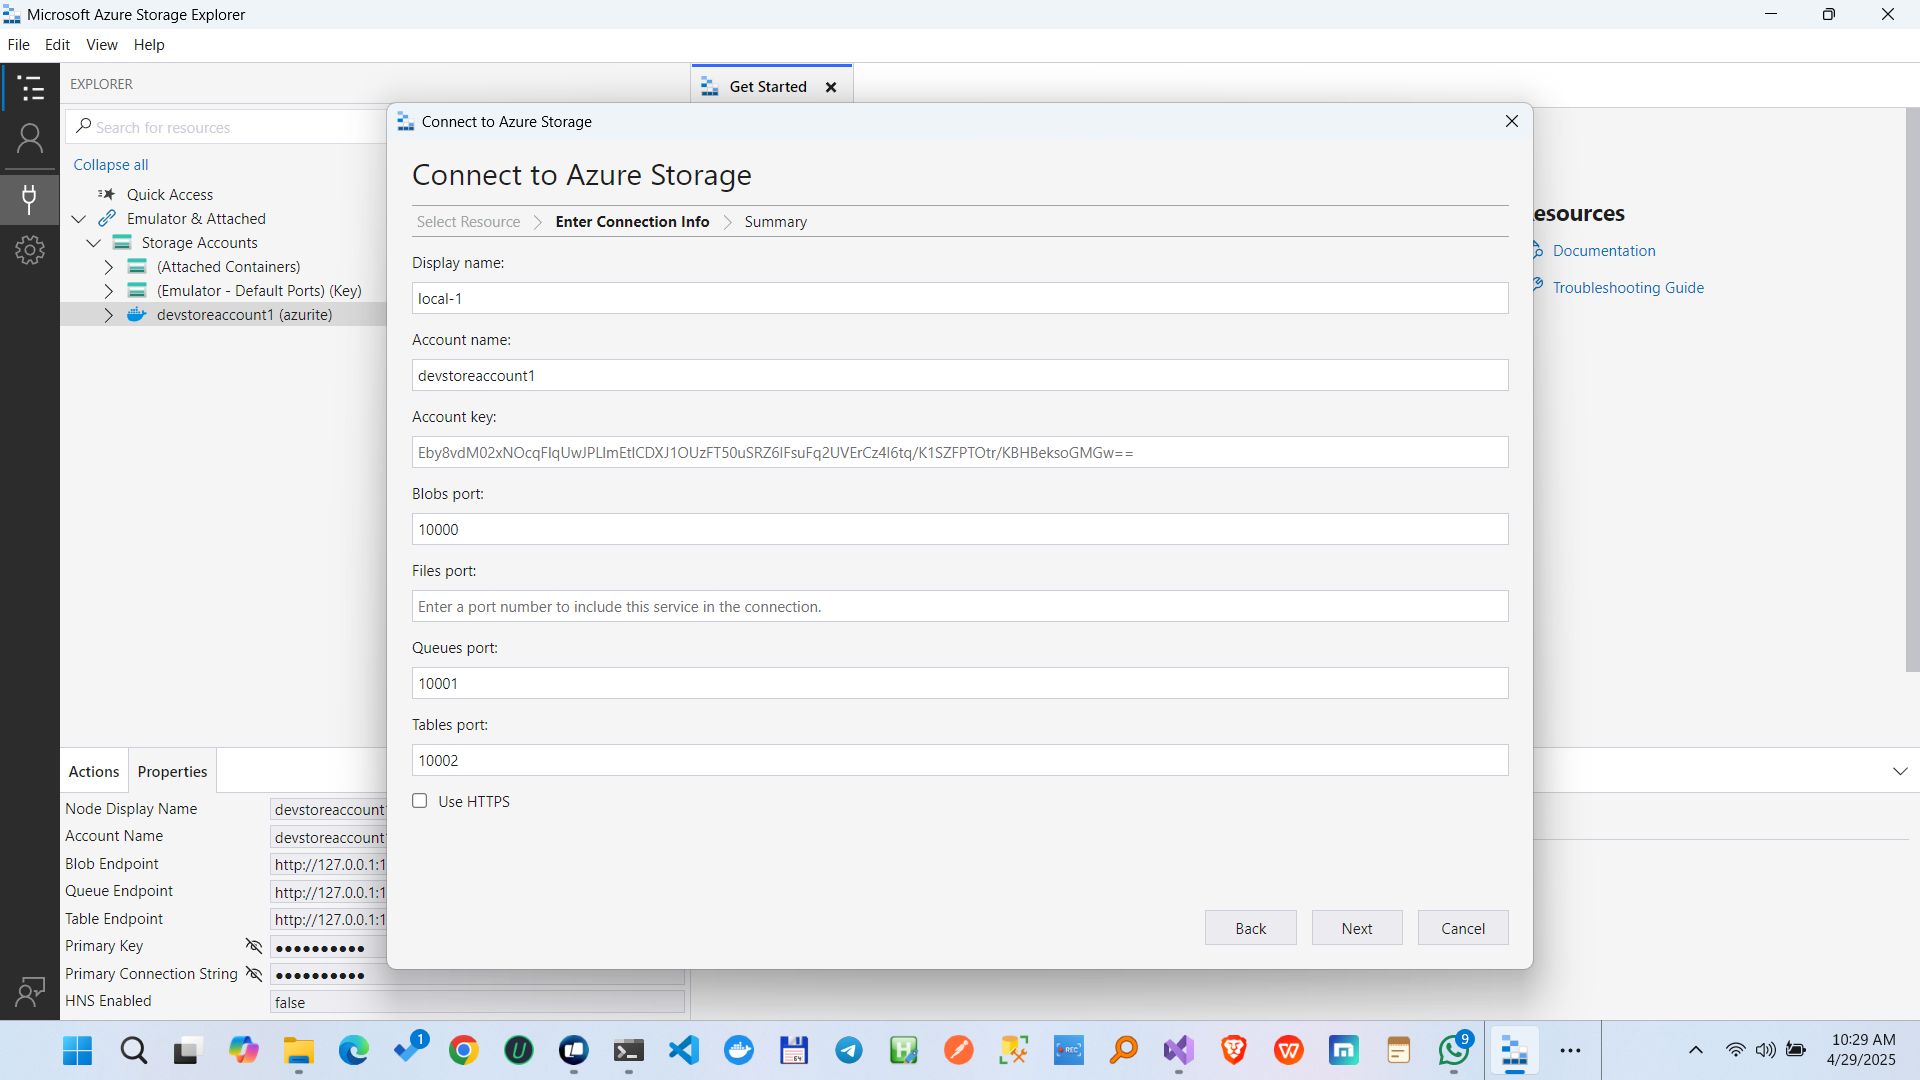
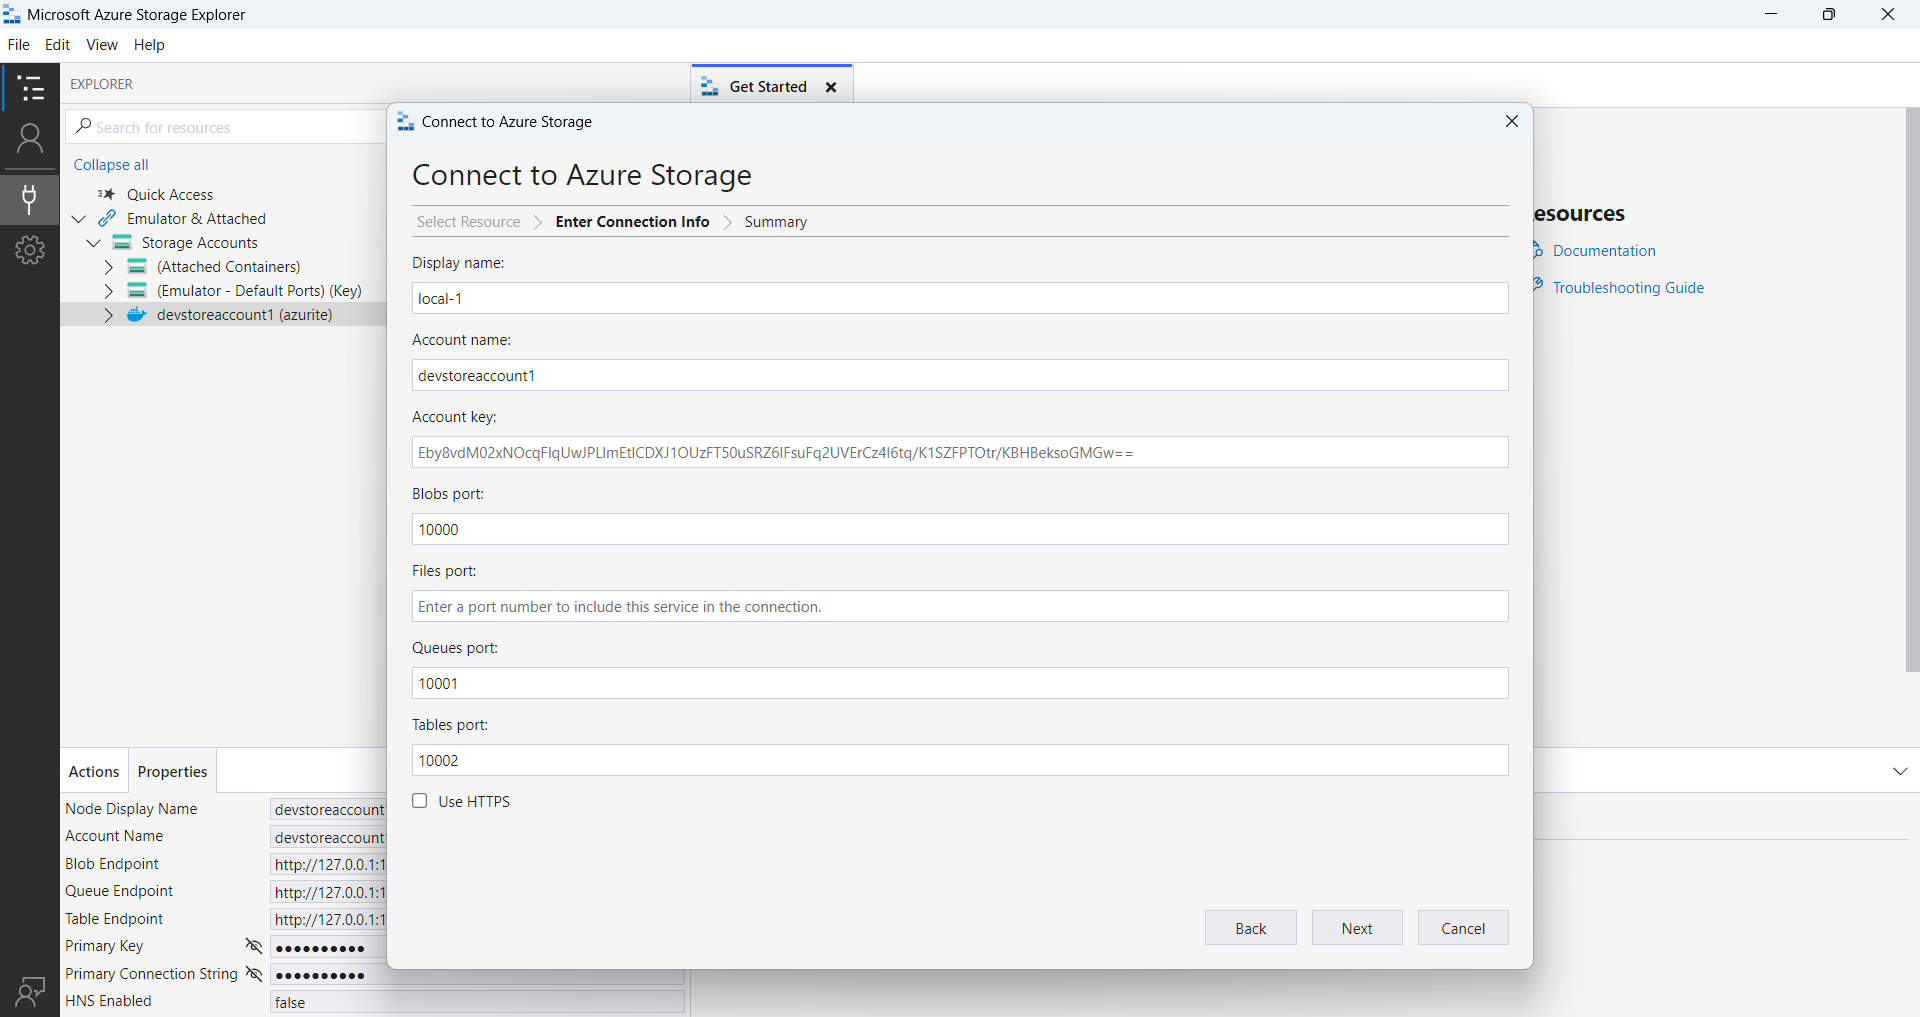
Update images 's size.

diff --git a/Readme.md b/Readme.md
@@ -15,6 +15,12 @@ Puedes instalar Azurite de varias maneras:
         docker run -p 10000:10000 -p 10001:10001 -p 10002:10002 -v ./data:/data mcr.microsoft.com/azure-storage/azurite
     ```
 
+    o simplemente ejecuanto el ficheor docker-compose.yml de este repositorio
+
+    ```bash
+        docker-compose up -d
+    ```
+
 2. Usando npm:
    
     ```bash
